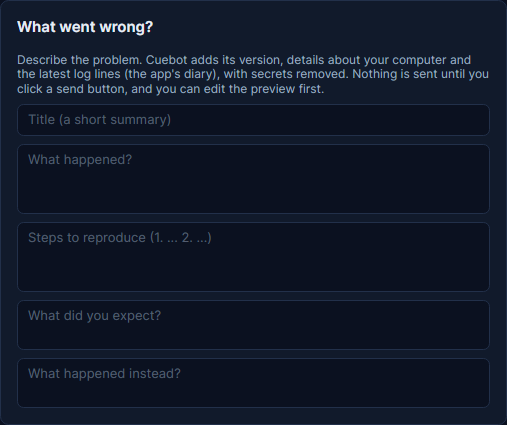
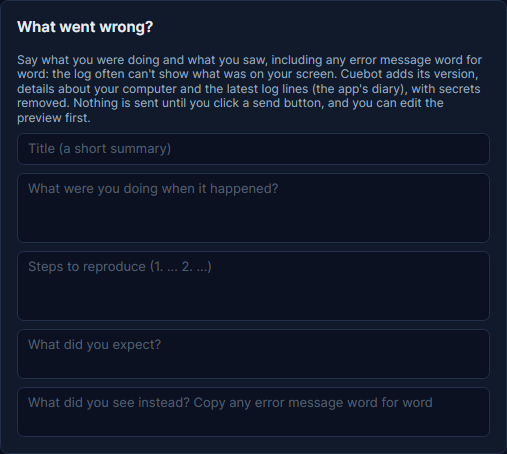
Log Assistant and tool errors; ask reporters what they did and saw
Two problem reports from rc.19 (#37, #38) said only "Asistant Error":
the form was empty, and the attached log had nothing, because errors an
AI app returns (Codex error/failed turn, provider not ready) were only
shown in the chat, and MCP tool calls that failed with an ApiException
(bad sub-action settings, not found), were declined, or used a bad
confirmation token were not logged at all.

- AssistantService logs every error the chat shows as a warning (once;
  the pump no longer logs exceptions separately).
- McpServer logs failed tool calls with their reason, declines, and
  refused confirmation tokens (still never the argument values).
- Report a problem: the card asks what you were doing and what you saw,
  error messages word for word; sending, opening or preparing a report
  with only a title is refused unless a crash is attached.
- Troubleshooting guide and its two Support screenshots updated.

Checks: Cuebot.Assistant.Tests 55/55, Cuebot.Server.Tests 380 passed
(1 skipped), UiTests Support filter 110/110, DocsScreenshots passed,
mkdocs build --strict passed.

AI-Assisted-By: Claude

diff --git a/src/Cuebot.Assistant/AssistantService.cs b/src/Cuebot.Assistant/AssistantService.cs
@@ -114,13 +114,13 @@ public sealed class AssistantService : IAsyncDisposable
             var provider = await ResolveProviderAsync(ct).ConfigureAwait(false);
             if (provider is null)
             {
-                yield return new AssistantError("No AI is set up yet. Sign in to an AI app such as Codex or Claude Code, or add an API key, then try again.");
+                yield return Logged(null, new AssistantError("No AI is set up yet. Sign in to an AI app such as Codex or Claude Code, or add an API key, then try again."));
                 yield break;
             }
             var status = await SafeStatusAsync(provider, ct).ConfigureAwait(false);
             if (!status.Ready)
             {
-                yield return new AssistantError($"{provider.Name}: {status.Message}");
+                yield return Logged(null, new AssistantError($"{provider.Name}: {status.Message}"));
                 yield break;
             }
 
@@ -131,7 +131,8 @@ public sealed class AssistantService : IAsyncDisposable
             var turn = Channel.CreateUnbounded<AssistantUpdate>(new UnboundedChannelOptions { SingleReader = true });
             _turnUpdates = turn.Writer;
             var pump = PumpAsync(provider, session.SendAsync(text, ct), turn.Writer, ct);
-            await foreach (var update in turn.Reader.ReadAllAsync(CancellationToken.None).ConfigureAwait(false)) yield return update;
+            await foreach (var update in turn.Reader.ReadAllAsync(CancellationToken.None).ConfigureAwait(false))
+                yield return update is AssistantError error ? Logged(provider, error) : update;
             _turnUpdates = null;
             await pump.ConfigureAwait(false);
             // Offer to undo what the turn changed (also after Stop: what was done is done).
@@ -144,6 +145,17 @@ public sealed class AssistantService : IAsyncDisposable
             _turnUpdates = null;
             _turn.Release();
         }
+    }
+
+    /// <summary>
+    /// What the chat shows as an error also goes to the log, so "Report a problem" carries it: an AI app's own error
+    /// (Codex, Claude Code...) otherwise only lived in the chat.
+    /// </summary>
+    private AssistantError Logged(IAssistantProvider? provider, AssistantError error)
+    {
+        var name = provider?.Name;
+        _log.Warn(LogSource, name is null || error.Message.StartsWith(name, StringComparison.Ordinal) ? error.Message : $"{name}: {error.Message}");
+        return error;
     }
 
     private async Task PumpAsync(IAssistantProvider provider, IAsyncEnumerable<AssistantUpdate> updates, ChannelWriter<AssistantUpdate> turn,
@@ -159,8 +171,7 @@ public sealed class AssistantService : IAsyncDisposable
         }
         catch (Exception ex)
         {
-            _log.Warn(LogSource, $"{provider.Name}: {ex.Message}");
-            await turn.WriteAsync(new AssistantError(ex.Message), CancellationToken.None).ConfigureAwait(false);
+            await turn.WriteAsync(new AssistantError(ex.Message), CancellationToken.None).ConfigureAwait(false);   // logged as it is shown
         }
         turn.TryComplete();
     }

diff --git a/tests/Cuebot.Assistant.Tests/ServiceTests.cs b/tests/Cuebot.Assistant.Tests/ServiceTests.cs
@@ -12,6 +12,7 @@ public sealed class ServiceTests
         public bool Ready { get; set; } = ready;
         public List<AssistantContext> Sessions { get; } = [];
         public Exception? FailWith { get; set; }
+        public string? ErrorText { get; set; }
 
         public Task<AssistantProviderStatus> GetStatusAsync(CancellationToken ct = default) =>
             Task.FromResult(Ready ? AssistantProviderStatus.Available("ok") : AssistantProviderStatus.Unavailable("not set up"));
@@ -29,6 +30,11 @@ public sealed class ServiceTests
                 yield return new AssistantText($"{owner.Id}#{number}: ");
                 await Task.Yield();
                 if (owner.FailWith is { } failure) throw failure;
+                if (owner.ErrorText is { } error)
+                {
+                    yield return new AssistantError(error);
+                    yield break;
+                }
                 yield return new AssistantText(text);
             }
 
@@ -101,7 +107,24 @@ public sealed class ServiceTests
 
         Assert.IsType<AssistantText>(updates[0]);
         Assert.Equal("OpenAI: 429 Too Many Requests", Assert.IsType<AssistantError>(updates[1]).Message);
-        Assert.Contains(bot.Log.Recent(), e => e.Message.Contains("429"));
+        Assert.Single(bot.Log.Recent(), e => e.Message.Contains("429"));
+    }
+
+    [Fact]
+    public async Task Errors_the_AI_app_reports_are_logged_for_problem_reports()
+    {
+        await using var bot = new Bot();
+        var codex = new FakeProvider("codex", ready: true, AssistantProviderKind.Cli) { ErrorText = "Codex: stream disconnected before completion" };
+        await using var service = Service(bot, codex);
+
+        var updates = await Updates.CollectAsync(service.SendAsync("hi"));
+
+        Assert.Equal("Codex: stream disconnected before completion", Assert.IsType<AssistantError>(updates[^1]).Message);
+        Assert.Contains(bot.Log.Recent(), e => e.Level == Cuebot.Core.Logging.LogLevel.Warning && e.Message == "CODEX: Codex: stream disconnected before completion");
+
+        codex.Ready = false;
+        await Updates.CollectAsync(service.SendAsync("hi"));
+        Assert.Contains(bot.Log.Recent(), e => e.Level == Cuebot.Core.Logging.LogLevel.Warning && e.Message.StartsWith("No AI is set up yet", StringComparison.Ordinal));
     }
 
     [Fact]

diff --git a/src/Cuebot.Server/Mcp/McpServer.cs b/src/Cuebot.Server/Mcp/McpServer.cs
@@ -296,7 +296,10 @@ public sealed class McpServer
             {
                 // Cuebot's own Assistant: the streamer answers on the Assistant page while the call waits.
                 if (!await confirm(name, summaryForAssistant, ct).ConfigureAwait(false))
+                {
+                    _services.Log.Info(LogSource, $"Tool {name} declined by the streamer");
                     return ToolResult(new JsonObject { ["declined"] = true, ["message"] = $"The streamer declined: {summaryForAssistant}. Nothing was done." }, isError: false);
+                }
             }
             else if (needed is { } summary)
             {
@@ -316,6 +319,7 @@ public sealed class McpServer
                 }
                 if (!Confirmations.TryConsume(token, name, args))
                 {
+                    _services.Log.Warn(LogSource, $"Tool {name} refused: the confirmation token is invalid or expired");
                     return ToolResult(new JsonObject
                     {
                         ["error"] = "The confirmation token is invalid, expired, already used or was issued for different arguments. "
@@ -328,6 +332,8 @@ public sealed class McpServer
         }
         catch (ApiException ex)
         {
+            // The AI sees why (a wrong parameter, a name that does not exist...); the log gets it too, for problem reports.
+            _services.Log.Warn(LogSource, $"Tool {name} failed: {ex.Message}");
             return ToolResult(ex.ToJson(), isError: true);
         }
         catch (Exception ex) when (ex is not OperationCanceledException)

diff --git a/src/Cuebot.App/ViewModels/Support/ReportProblemViewModel.cs b/src/Cuebot.App/ViewModels/Support/ReportProblemViewModel.cs
@@ -166,9 +166,20 @@ public sealed partial class ReportProblemViewModel : ObservableObject
     private bool CheckTitle()
     {
         Error = "";
-        if (!string.IsNullOrWhiteSpace(Title)) return true;
-        Error = "Give the report a short title first.";
-        return false;
+        if (string.IsNullOrWhiteSpace(Title))
+        {
+            Error = "Give the report a short title first.";
+            return false;
+        }
+        // A title alone leaves nothing to go on: the log rarely holds what was on screen (an AI app's message, a
+        // wrong result). An attached crash speaks for itself.
+        if (string.IsNullOrWhiteSpace(Summary) && string.IsNullOrWhiteSpace(Steps) && string.IsNullOrWhiteSpace(Actual)
+            && !(IncludeCrash && HasCrash))
+        {
+            Error = "Say what you were doing and what you saw (copy any error message word for word) before sending.";
+            return false;
+        }
+        return true;
     }
 
     /// <summary>Saves the preview as <c>reports/report-*.md</c>.</summary>

diff --git a/tests/Cuebot.UiTests/Support/SupportPageTests.cs b/tests/Cuebot.UiTests/Support/SupportPageTests.cs
@@ -250,6 +250,10 @@ public sealed class SupportPageTests : IDisposable
         Assert.Equal("Give the report a short title first.", report.Error);
 
         report.Title = "Chat freezes";
+        await report.OpenIssue();
+        Assert.Empty(_opened);
+        Assert.StartsWith("Say what you were doing and what you saw", report.Error);
+
         report.Summary = "Chat stops after a raid";
         await report.OpenIssue();
         var url = Assert.Single(_opened);
@@ -353,6 +357,7 @@ public sealed class SupportPageTests : IDisposable
         // The same install id next time; refusals and rate limits are explained.
         var again = new SupportViewModel(Services(ghInstalled: false)).Report;
         again.Title = "Another";
+        again.Actual = "It broke";
         FakeIntake(HttpStatusCode.TooManyRequests, """{"error": "Too many", "retryAfter": 600}""");
         await again.SendCommand.ExecuteAsync(null);
         Assert.Equal(sent["installId"]!.GetValue<string>(), _sent[^1]["installId"]!.GetValue<string>());

diff --git a/tests/Cuebot.Server.Tests/McpTests.cs b/tests/Cuebot.Server.Tests/McpTests.cs
@@ -223,6 +223,9 @@ public sealed class McpTests : IAsyncLifetime
         var (missing, missingResult) = await _host.CallAsync("get_action", Args(("action", "Nope")));
         Assert.True(missing);
         Assert.Contains("not found", missingResult["error"]!.GetValue<string>());
+        // Logged with the reason, so a problem report shows what the AI got wrong.
+        Assert.Contains(Bot.Log.Recent(), e => e.Source == "MCP" && e.Level == Cuebot.Core.Logging.LogLevel.Warning
+            && e.Message.StartsWith("Tool get_action failed: ", StringComparison.Ordinal) && e.Message.Contains("not found"));
 
         var (noArg, noArgResult) = await _host.CallAsync("get_action");
         Assert.True(noArg);

diff --git a/website/docs/guides/help/troubleshooting.md b/website/docs/guides/help/troubleshooting.md
@@ -79,10 +79,12 @@ Start Cuebot again: the running copy comes to the front. Still off-screen? Close
 **Settings > Support**, tab **Report a problem**, builds a report for you: your Cuebot version, your system and the
 recent log.
 
-![The What went wrong? card with Title, What happened and the other boxes](../../assets/screens/card-what-went-wrong.png)
+![The What went wrong? card with Title, What were you doing and the other boxes](../../assets/screens/card-what-went-wrong.png)
 
 1. Type a short **Title**, like "Follow alert does not show".
-2. Fill in **What happened?**, the steps, what you expected and what happened instead.
+2. Say what you were doing when it happened and what you saw instead. Copy any error message word for word: the log
+   often can't show what was on your screen, such as a message in the Assistant chat. Cuebot won't send a report
+   that has only a title, unless a crash is attached.
 3. Under **Include**, leave the boxes as they are, unless you have a reason to change them.
 4. Read the **Preview** on the right. That is exactly what will be sent. You can change or delete anything in it.
 5. Click **Send report**. You do not need a GitHub account. **Open the issue** then shows your report in the browser.
